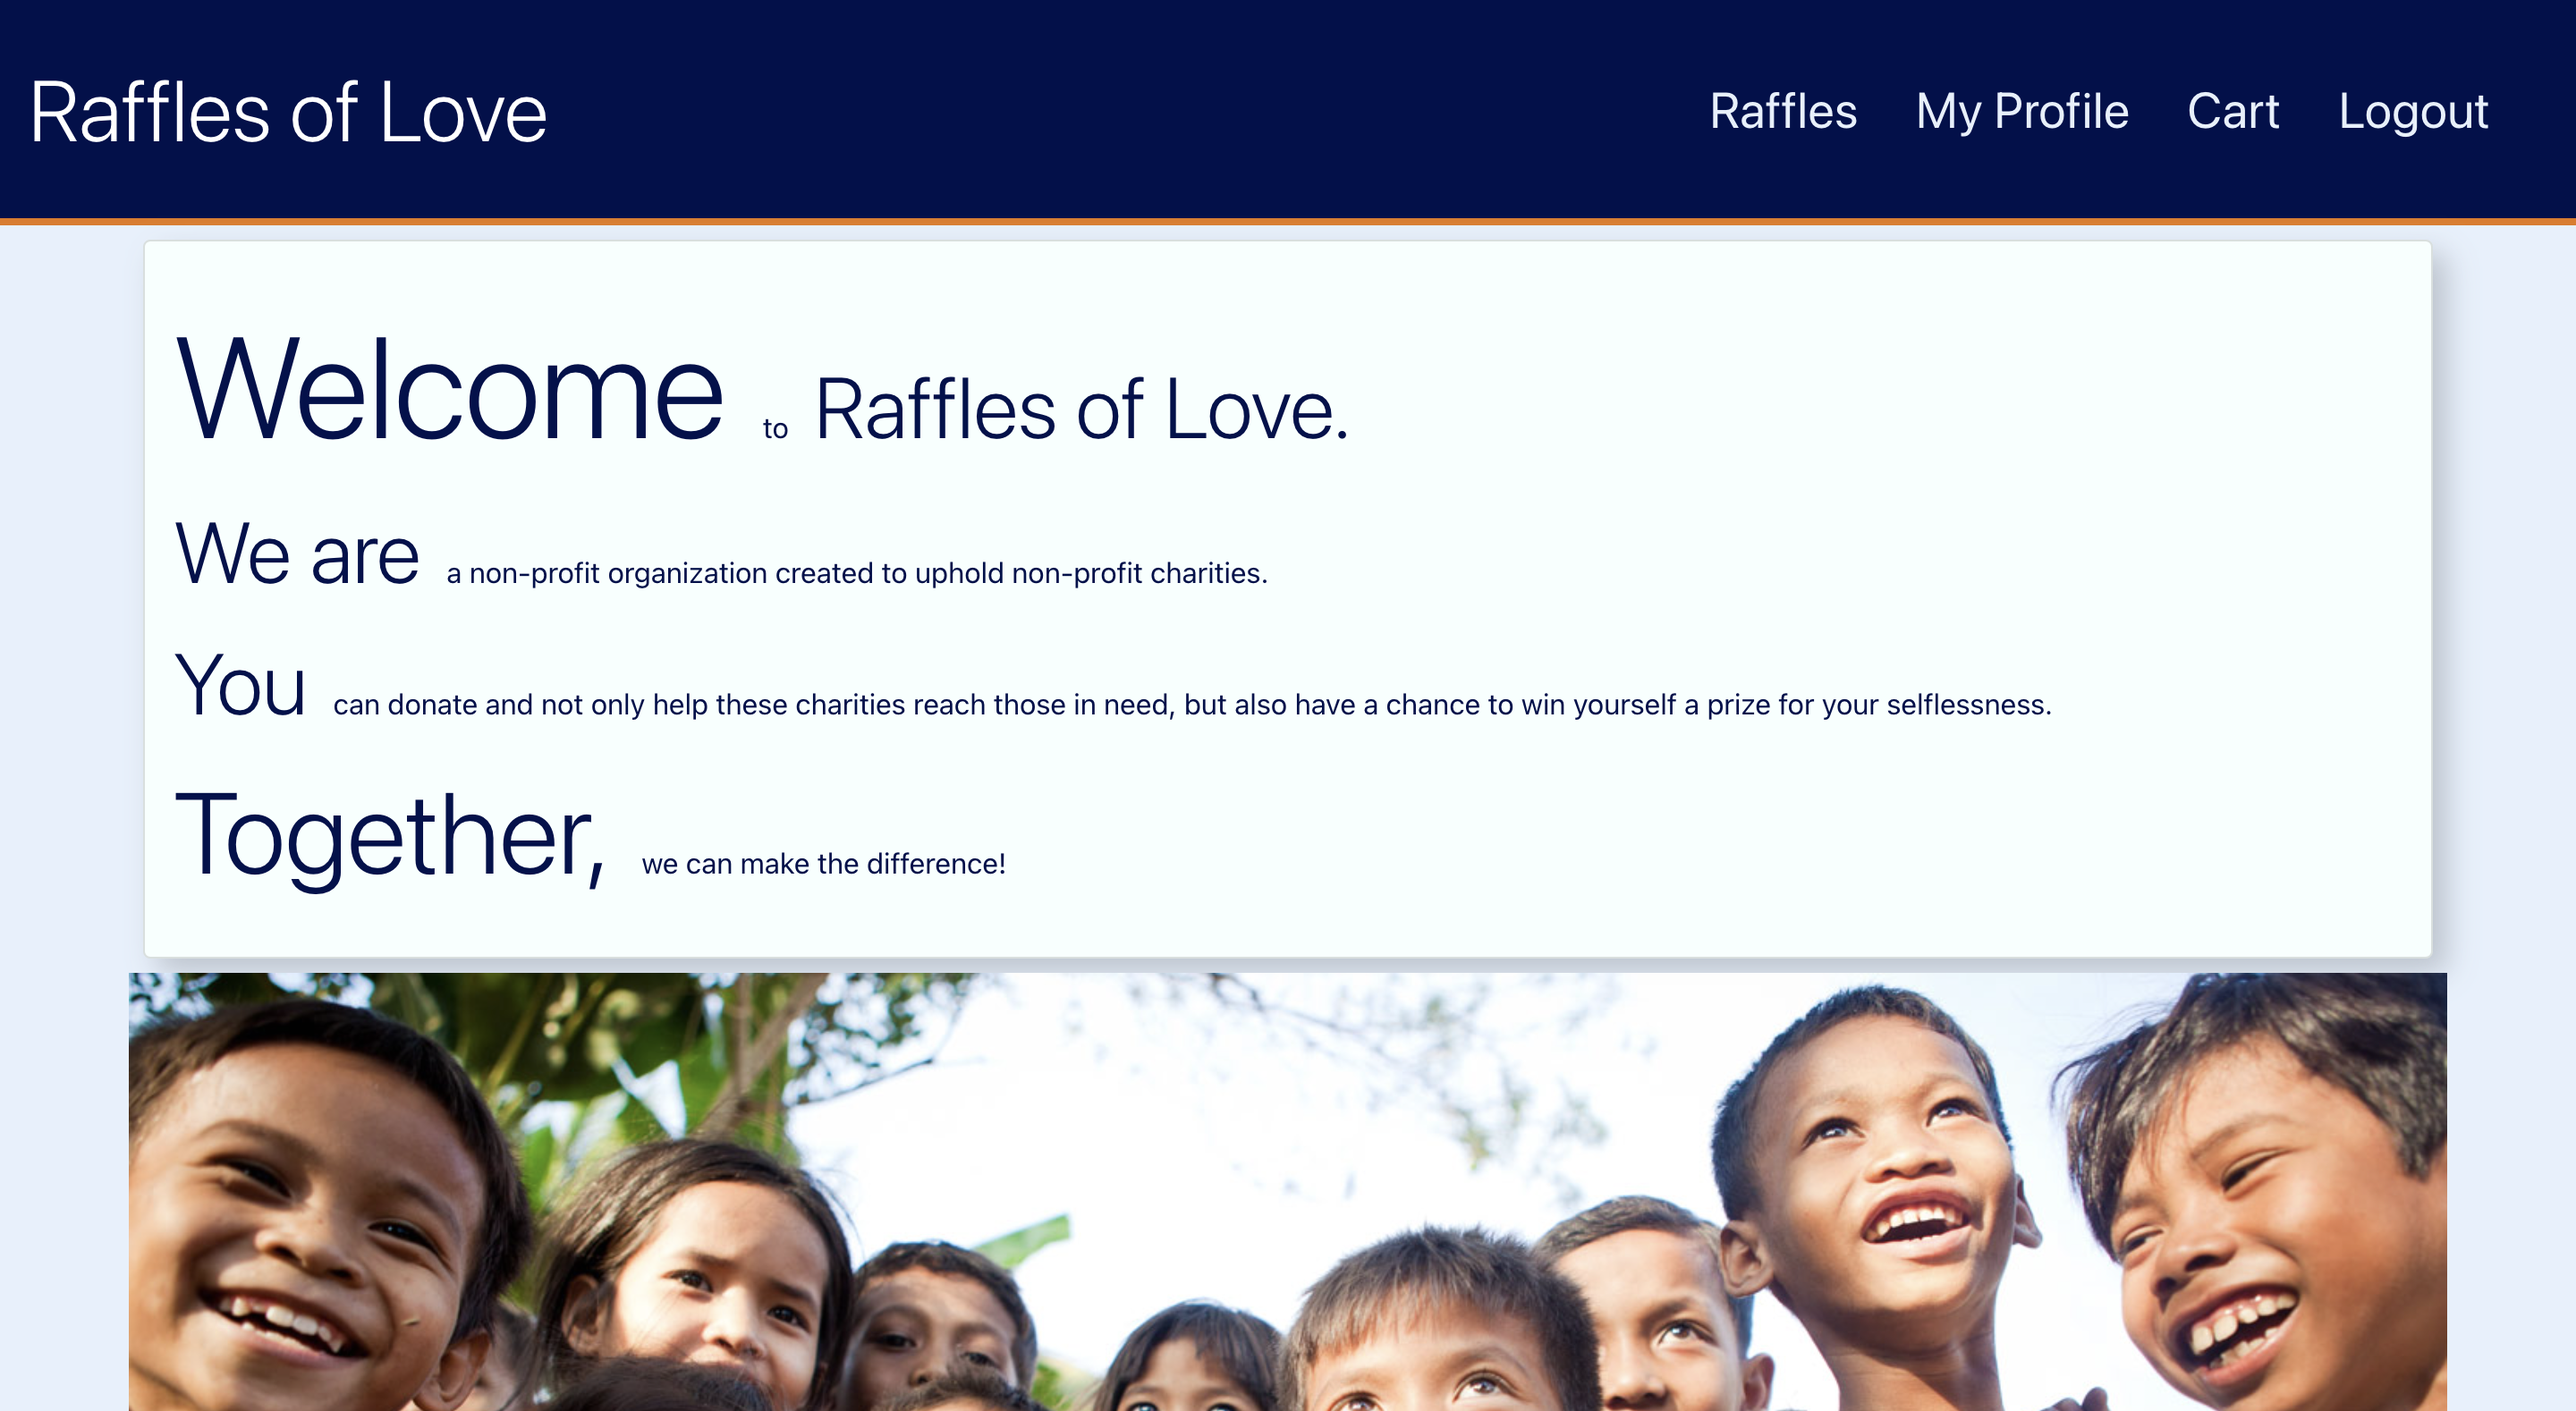
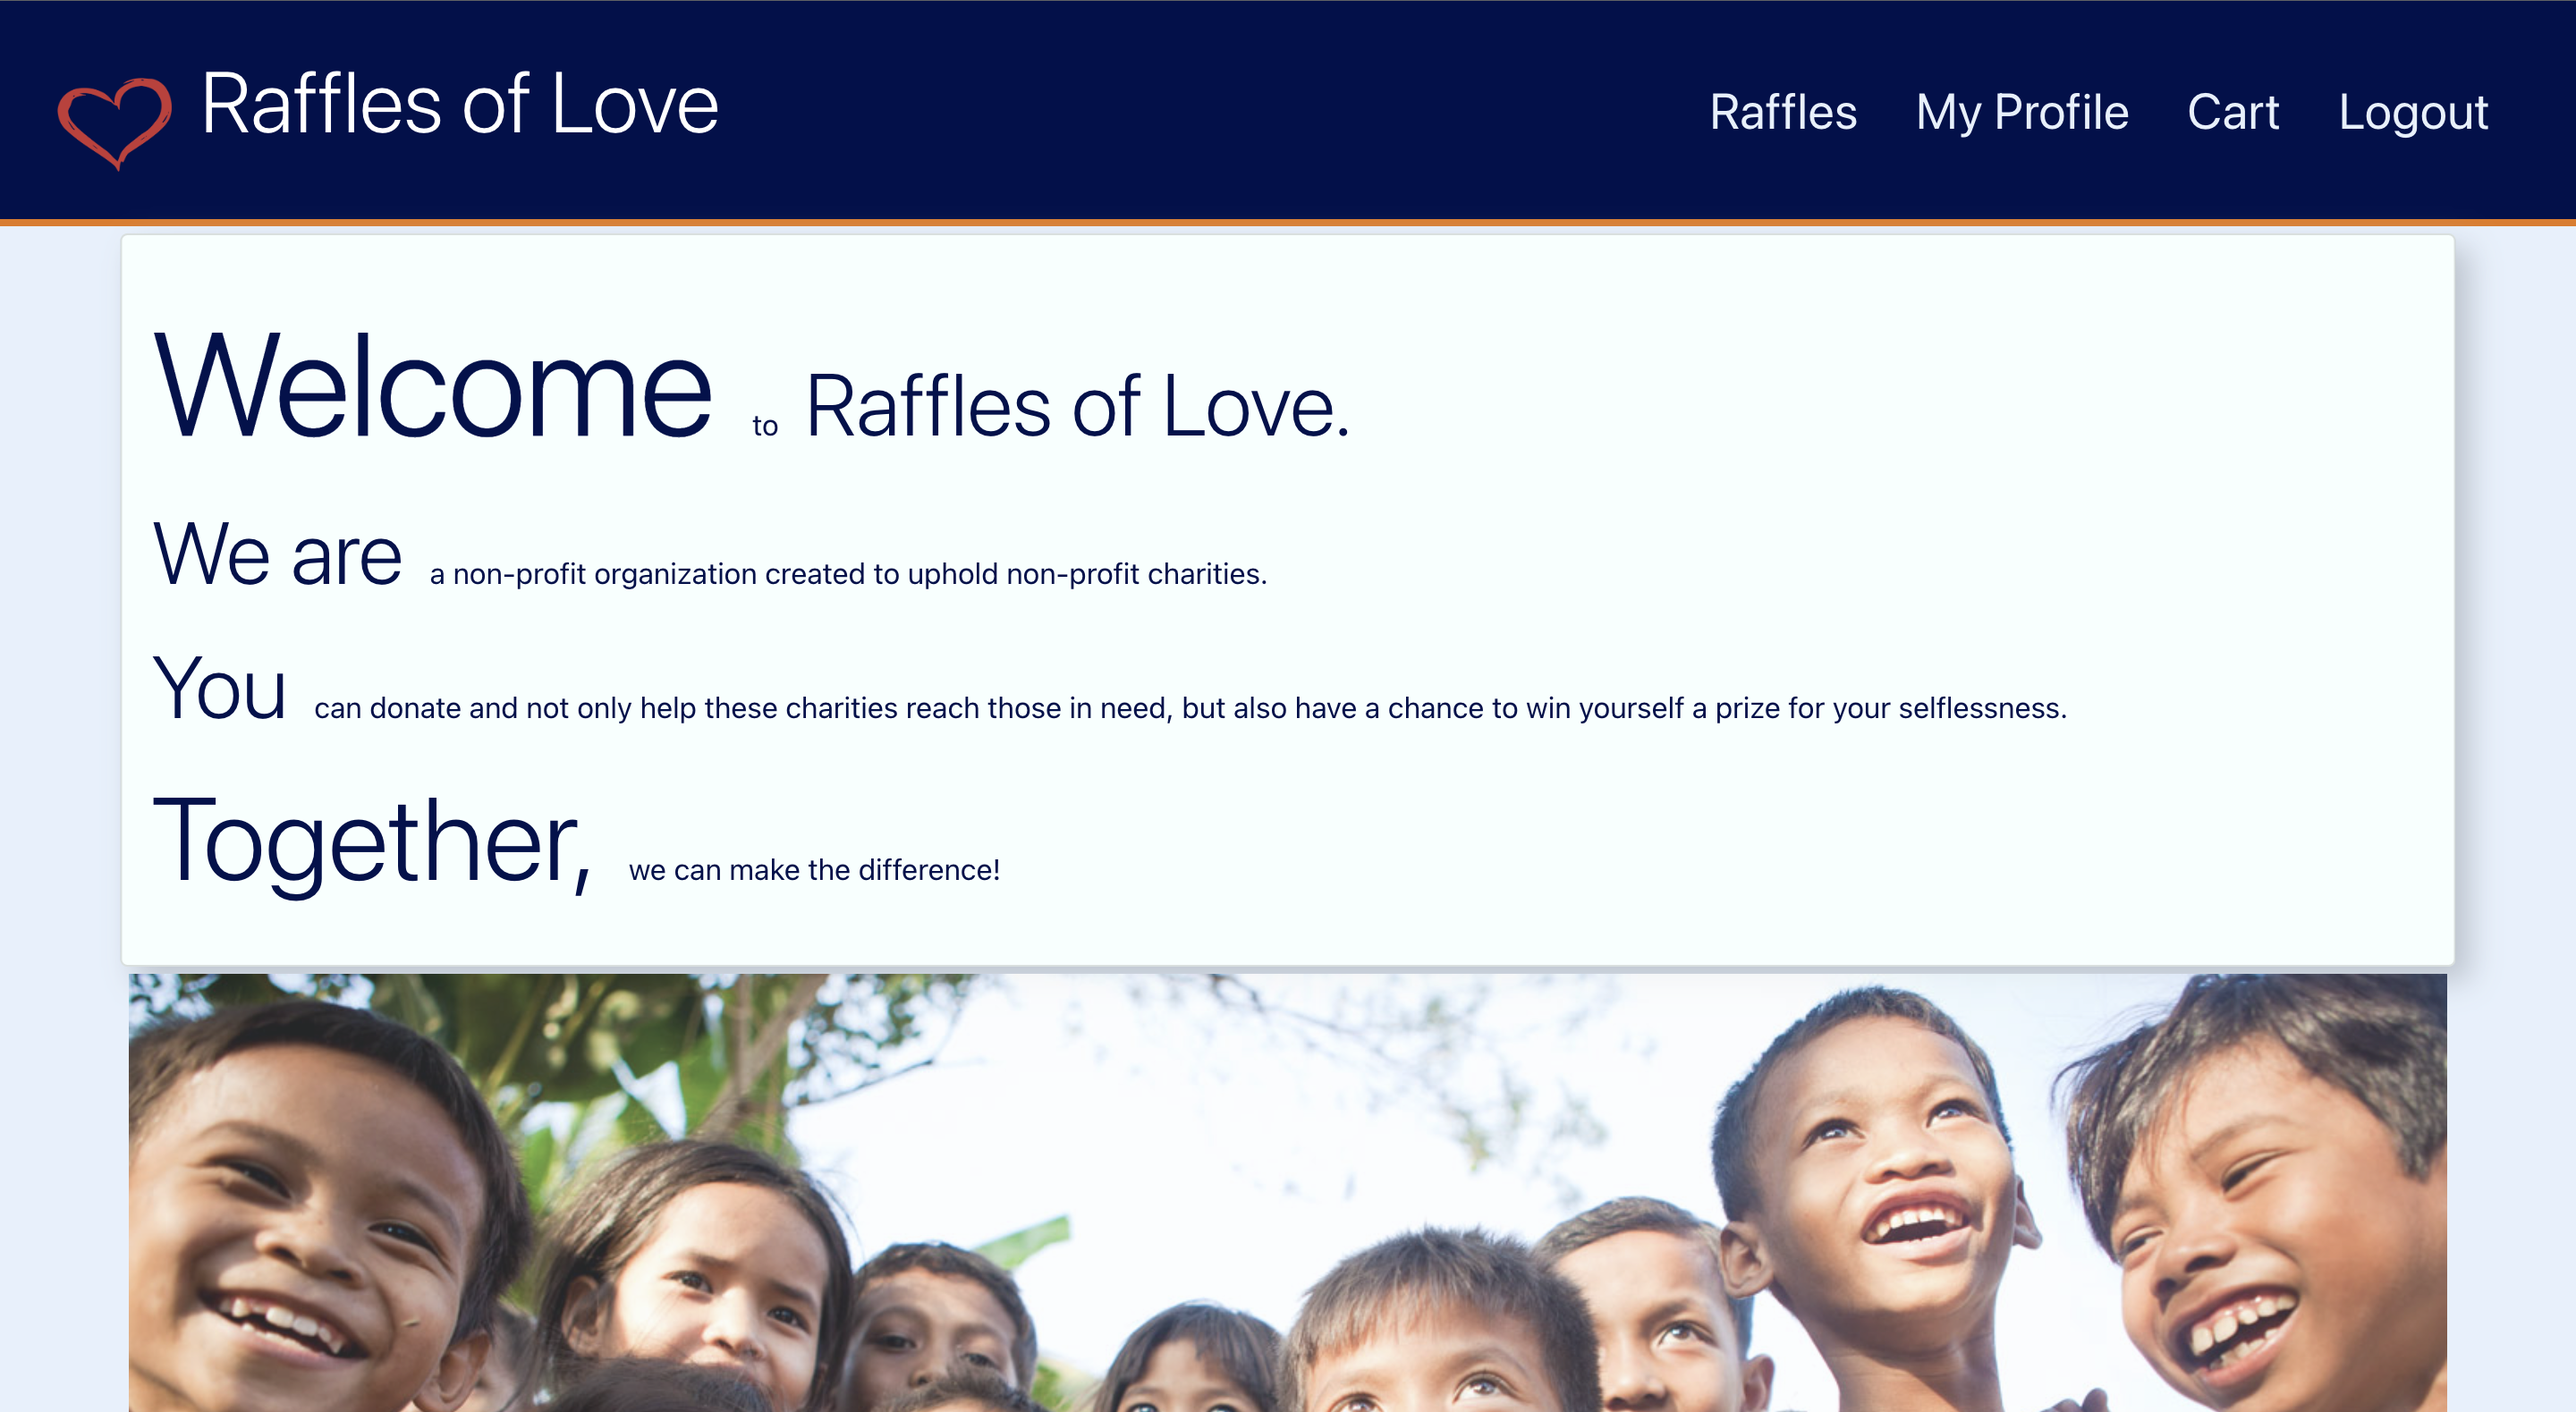
Fixed readme

diff --git a/client/src/components/Navigation/index.js b/client/src/components/Navigation/index.js
@@ -1,17 +1,14 @@
-// import NavLink from './NavLink';
-import React,{useState} from 'react';
+import React, { useState } from 'react';
 import { Link } from "react-router-dom";
-import {Navbar, Modal,Nav,Button,Tab,Tabs} from 'react-bootstrap';
-import {Login,Register,Cart} from '../'
+import { Navbar, Modal, Nav, Tab, Tabs } from 'react-bootstrap';
+import { Login, Register, Cart } from '../'
 import Auth from '../../utils/auth';
-import {TOTAL} from '../../utils/actions'
 
 import { useStoreContext } from "../../utils/GlobalState";
 import './nav.css';
 
 function Navigation() {
   const [state, dispatch] = useStoreContext();
-  // const navigationLinks = ['Charity','Products','Profile','Checkout','Logout']
   const [show, setShow] = useState(false);
   const [key, setKey] = useState('login');
   const [showCart, setShowCart] = useState(false);
@@ -21,126 +18,90 @@ function Navigation() {
     Auth.logout()
   }
   const handleCartClose = () => {
-    // getTotal()
-    setShowCart(false)};
+    setShowCart(false)
+  };
   const handleCartShow = () => setShowCart(true);
   const handleClose = () => setShow(false);
   const handleShow = () => {
     setKey('login')
     setShow(true)
   };
-  
+
 
   return (
     <>
-    <Navbar className="navigation p-3 d-flex justify-content-between"  variant="dark" expand="lg">
+      <Navbar className="navigation p-3 d-flex justify-content-between" variant="dark" expand="lg">
         <div>
-
-          <Navbar.Brand className="brandName display-1" href="#home"as={Link} to='/'>Raffles of Love</Navbar.Brand>
+          <a href="/">
+            <img className='logo' src="https://www.nicepng.com/png/full/116-1161012_creative-heart-logo-designs-heart-logo-png.png" alt=""></img>
+          </a>
+          <Navbar.Brand className="brandName display-1" href="/">Raffles of Love</Navbar.Brand>
         </div>
         <div>
-          <Navbar.Toggle  aria-controls="navbar" />
+          <Navbar.Toggle aria-controls="navbar" />
           <Navbar.Collapse id="navbar">
             <Nav className="navRight">
-              {/* <Nav className="navLink fs-3" as={Link} to='/'>Home</Nav> */}
               <Nav className="navLink fs-3" as={Link} to='/Product'>Raffles</Nav>
-              {Auth.loggedIn()?
-              <>
-              <Nav className="navLink fs-3" as={Link} to='/Profile'>My Profile</Nav>
-              <Nav onClick={handleCartShow} className="navLink fs-3 navCheckout" >Cart<span className="cartCount">{state.cart.length?state.cart.reduce((acc,item)=>{
-                return acc+parseInt(item.quantity)
-              },0):<></>}</span></Nav>
-             
-              <Nav onClick={logout} className="navLink fs-3" as={Link} to='#'> Logout</Nav>
-              </>
-              :
-              <Nav onClick={handleShow} className="navLink fs-3" as={Link} to='#'> Login</Nav>
+              {Auth.loggedIn() ?
+                <>
+                  <Nav className="navLink fs-3" as={Link} to='/Profile'>My Profile</Nav>
+                  <Nav onClick={handleCartShow} className="navLink fs-3 navCheckout" >Cart<span className="cartCount">{state.cart.length ? state.cart.reduce((acc, item) => {
+                    return acc + parseInt(item.quantity)
+                  }, 0) : <></>}</span></Nav>
+
+                  <Nav onClick={logout} className="navLink fs-3" as={Link} to='#'> Logout</Nav>
+                </>
+                :
+                <Nav onClick={handleShow} className="navLink fs-3" as={Link} to='#'> Login</Nav>
               }
             </Nav>
           </Navbar.Collapse>
-          </div>
-          </Navbar>
+        </div>
+      </Navbar>
 
-        <Modal show={show} onHide={handleClose} size="lg">
-          <Modal.Header closeButton >
-            CHARITY
-          </Modal.Header>
-          <Modal.Body>
+      <Modal show={show} onHide={handleClose} size="lg">
+        <Modal.Header closeButton >
+          CHARITY
+        </Modal.Header>
+        <Modal.Body>
 
           {/* <Tab.Container> */}
 
           <Tabs
-              id="login-tab"
-              activeKey={key}
-              onSelect={(k) => setKey(k)}
-              className="mb-3 d-flex"
-            > 
+            id="login-tab"
+            activeKey={key}
+            onSelect={(k) => setKey(k)}
+            className="mb-3 d-flex"
+          >
             {/* <Tab.Content> */}
 
-              <Tab.Pane eventKey="login" title="Login">
-                <Login handleModalClose={()=>setShow(false)} />
-              </Tab.Pane>
-              <Tab.Pane eventKey="Register" title="Register">
-                <Register handleModalClose={()=>setShow(false)} />
-              </Tab.Pane>
+            <Tab.Pane eventKey="login" title="Login">
+              <Login handleModalClose={() => setShow(false)} />
+            </Tab.Pane>
+            <Tab.Pane eventKey="Register" title="Register">
+              <Register handleModalClose={() => setShow(false)} />
+            </Tab.Pane>
             {/* </Tab.Content> */}
-            
-            </Tabs>
+
+          </Tabs>
           {/* </Tab.Container> */}
-          </Modal.Body>
-            {/* <Modal.Title>Login</Modal.Title>
+        </Modal.Body>
+        {/* <Modal.Title>Login</Modal.Title>
           <Login handleModalClose={()=>setShow(false)} /> */}
-        </Modal>
+      </Modal>
 
-        <Modal show={showCart} onHide={handleCartClose} size="lg">
-          <Modal.Header closeButton >
-            <Modal.Title>Raffles of Love</Modal.Title>
-          </Modal.Header>
-          <Modal.Body>
-            <Cart handleModalClose={()=>setShowCart(false)}/>
-          
-          </Modal.Body>
-            
-        </Modal>
-        
+      <Modal show={showCart} onHide={handleCartClose} size="lg">
+        <Modal.Header closeButton >
+          <Modal.Title>Raffles of Love</Modal.Title>
+        </Modal.Header>
+        <Modal.Body>
+          <Cart handleModalClose={() => setShowCart(false)} />
+
+        </Modal.Body>
+
+      </Modal>
+
     </>
-    
-
-
-
-
-
-//     <div className="navContainer">
-
-//     <div className="navName">
-//             Charity
-//     </div>
-//     <div className="navLinkContainer">  
-
-//             <div className={`navLink`} >
-//                 <Link className={`Link`} to='/'>
-//                     Charity
-//                 </Link>
-//             </div>
-//             <div className={`navLink`} >
-//                 <Link className={`Link`} to='/Products'>
-//                     Product
-//                 </Link>
-//             </div>
-//             <div className={`navLink`} >
-//                 <Link className={`Link`} to='/Profile'>
-//                     Profile
-//                 </Link>
-//             </div>
-//             <div className={`navLink`} >
-//                 <div className={`Link`}>
-//                   Logout
-
-//                 </div>
-                
-//             </div>
-//     </div>
-// </div>
   );
 }
 

diff --git a/client/src/components/Navigation/nav.css b/client/src/components/Navigation/nav.css
@@ -41,6 +41,10 @@
     border-radius: 50%;
     padding:0 0.4rem;
 }
+.logo{
+    width:4rem;
+    margin:0 1rem 0;
+}
 @media screen and (max-width: 992px) {
     .navLink{
         padding-right:0 !important;
